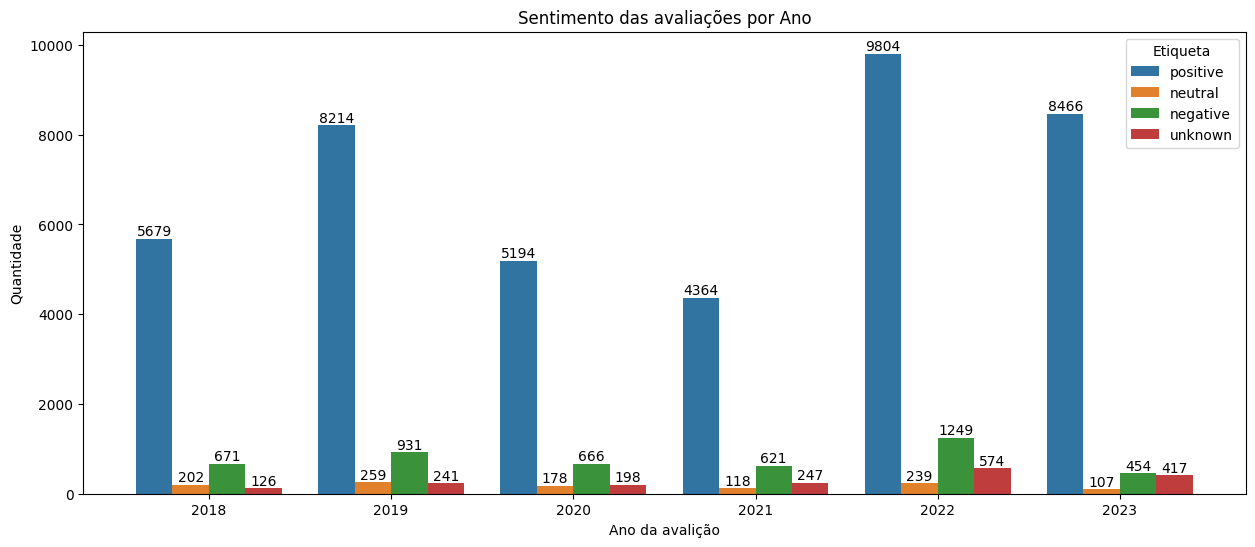
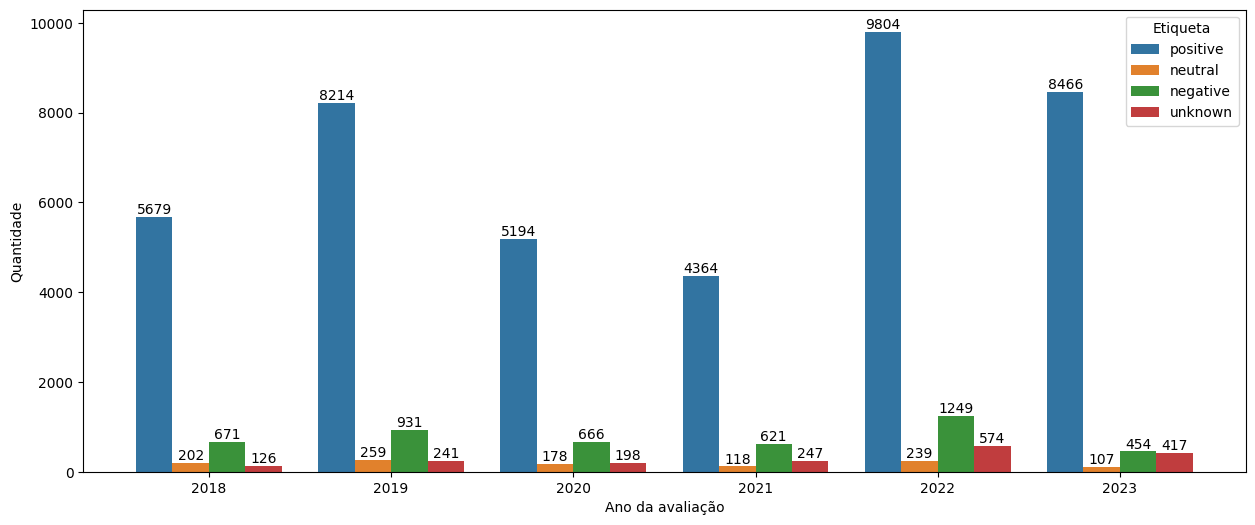
wip graficos

diff --git a/capitulos/resultados.tex b/capitulos/resultados.tex
@@ -500,7 +500,7 @@ Após realizar o tratamento e levar em consideração o \textit{score} mais alto
 
 \begin{figure}
 	\centering
-	\includegraphics[width=.7\textwidth]{figs/bert/classificacao.png}
+	\includegraphics[width=.7\textwidth]{figs/bert/distribuicao_pizza.png}
 	\caption{Sentimento BERTs}
 	\label{img:sentimento_bert}
 \end{figure}
@@ -509,9 +509,16 @@ Como já era esperado a grande maioria das avaliações foram classificadas como
 
 \begin{figure}
 	\centering
-	\includegraphics[width=.7\textwidth]{figs/bert/timechart_classificacao.png}
+	\includegraphics[width=1\textwidth]{figs/bert/sentimento_ano.png}
 	\caption{Sentimento BERTs por ano}
 	\label{img:sentimento_timechart_bert}
+\end{figure}
+
+\begin{figure}
+	\centering
+	\includegraphics[width=1\textwidth]{figs/bert/sentimento_nota.png}
+	\caption{Sentimento BERTs por nota}
+	\label{img:sentimento_nota_bert}
 \end{figure}
 
 Porém avaliando de forma individual cada um dos modelos, podemos notar uma grande discrepância entre eles, com a afinação mais eficiente para esse corpus sendo o do citizenlab, considerando que eficiência aqui representa a maior número de avaliações classificadas com \textit{score} superior aos outros, como notamos na figura \ref{img:rinha_de_berts}, modelo esse que levou menos de 7 minutos para executar e classificar todo o corpus, seguido pelo philschmid que levou cerca de 3 minutos e meio na média.
